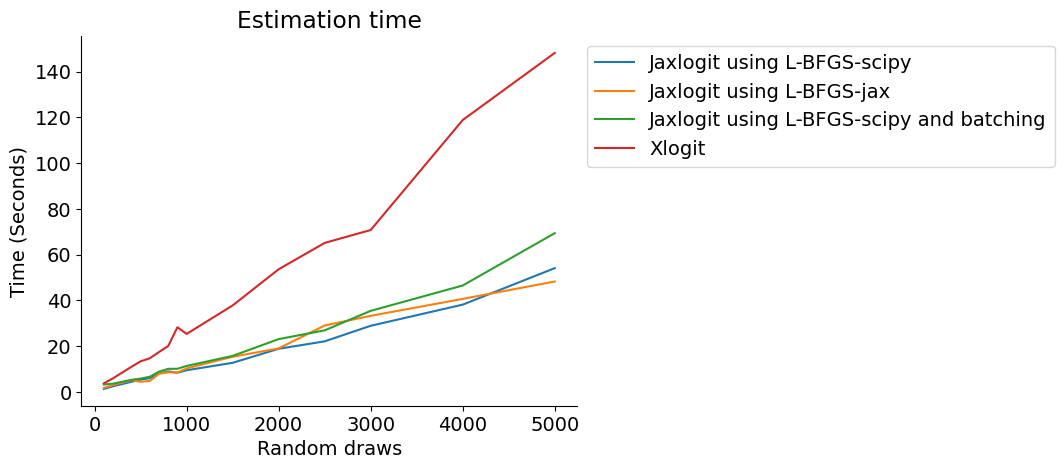
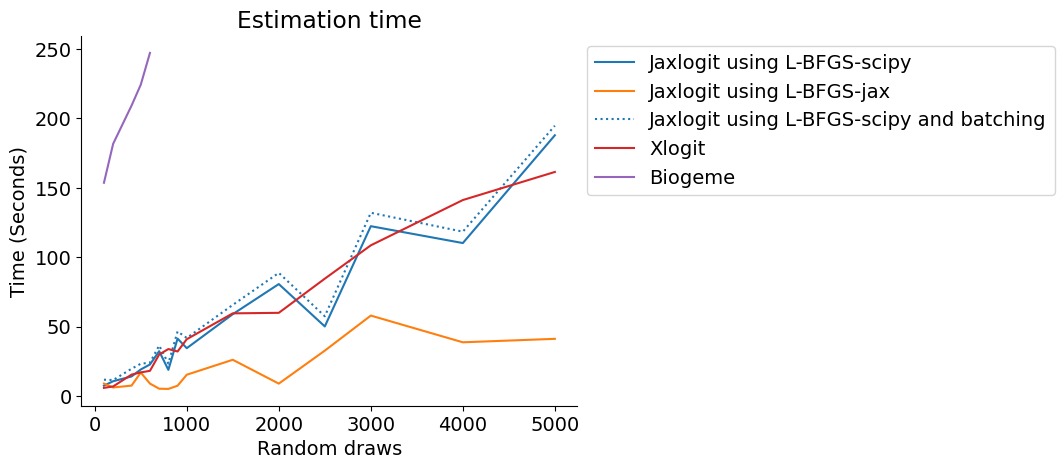
Evelyn/graphs (#88)

diff --git a/docs/example_notebooks/mixed_logit_comparison_example.py b/docs/example_notebooks/mixed_logit_comparison_example.py
@@ -1,5 +1,5 @@
 # %% [markdown]
-# # Summary of time taken and brier scores for jaxlogit, xlogit, and biogeme
+# # Comparison of time taken and brier scores for jaxlogit, xlogit, and biogeme
 # Where the estimation is using draws = 500 (suboptimal but highest without running out of memory in biogeme), and training and test data is separated.
 # 
 # | | jaxlogit-scipy | jaxlogit-jax | xlogit | biogeme |

diff --git a/README.md b/README.md
@@ -131,10 +131,12 @@ Alternatively, clone the [repo](https://github.com/outerl/jaxlogit).
 
 ## Benchmark
 As shown in the plot below, jaxlogit with batching uses significantly less memory than xlogit.
-![Graph comparing memory usage of jaxlogit and xlogit](examples/graphs/memory_comparison_cropped.png)
-![Graph comparing time of jaxlogit, xlogit, and biogeme](examples/graphs/fit_estimation_time.png)
-The default method is 'L-BFGS-B' or 'L-BFGS'. Where a b is appended to the label, the 'BFGS' method was used.
+![Graph comparing memory usage of jaxlogit and xlogit](https://github.com/outerl/jaxlogit/blob/main/examples/graphs/memory_comparison_cropped.png?raw=true)
+![Graph comparing time of jaxlogit, xlogit, and biogeme](https://github.com/outerl/jaxlogit/blob/main/examples/graphs/fit_estimation_time.png?raw=true)
 
-The graph of memory shows that using the batching  reduces memory usage below that of xlogit and other types of jaxlogit. Off the edge of this graph is a spike in biogeme's memory usage, up to 30,000MB.
+The graph of memory shows that using the batching  reduces memory usage below that of xlogit and other types of jaxlogit. Off the edge of this graph is a spike in biogeme's memory usage, up to 30GB.
 
 In the timing graph, it can be seen that batching does not have a significant impact on time taken. Additionally, the jaxlogit performs much faster when using the experimental jax methods. The time for standard scipy method and xlogit are quite comparable. Biogeme is slower than xlogit and any form of jaxlogit.
+
+These were taken on the complicated electricity dataset. On the nicer artificial dataset the timing looks like this:
+![Graph comparing timing of jaxlogit and xlogit](https://github.com/outerl/jaxlogit/blob/main/examples/graphs/fit_estimation_time.png?raw=true)
